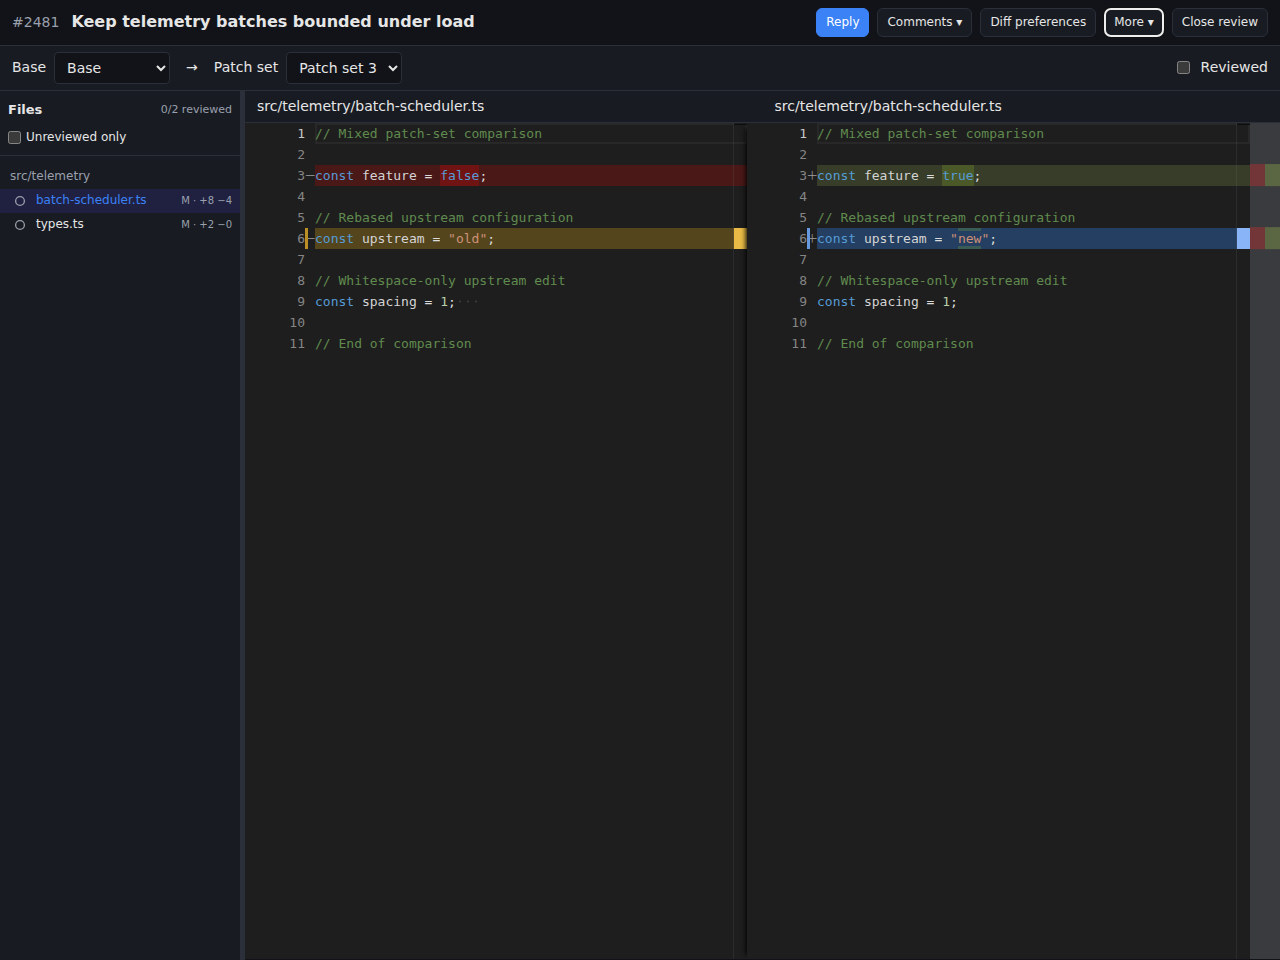
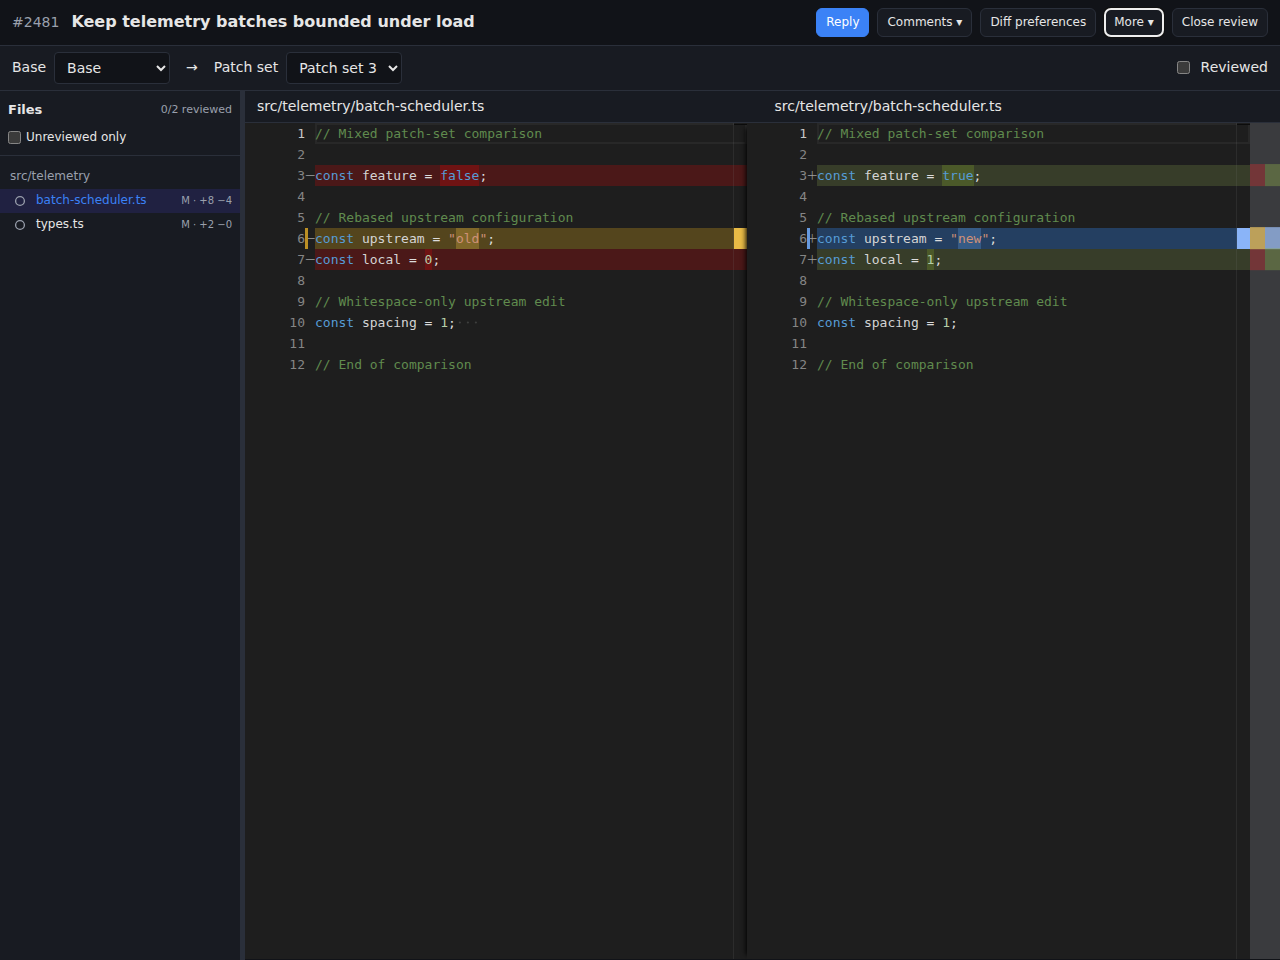
Fix rebase diff highlights and scrollbar colors

Changed region(s): [[0.625, 0.2188, 1.0, 0.4062], [0.25, 0.2188, 0.5938, 0.4062]]

diff --git a/src/renderer/src/styles.css b/src/renderer/src/styles.css
@@ -742,15 +742,26 @@ mark { background: var(--warn-bg); color: inherit; border-radius: 2px; padding: 
 .review-side-head .review-file-comment-header:hover { background: var(--panel); }
 
 /* Gerrit-classified rebase edits are distinct from ordinary red/green edits. */
-.local-review { --rebase-added: #d7e7ff; --rebase-removed: #fff0bd; }
+.local-review { --rebase-added: #d7e7ff; --rebase-removed: #fff0bd; --rebase-added-text: #aacbfa; --rebase-removed-text: #f5d775; }
 @media (prefers-color-scheme: dark) {
-  .local-review { --rebase-added: #243f61; --rebase-removed: #54451d; }
+  .local-review { --rebase-added: #243f61; --rebase-removed: #54451d; --rebase-added-text: #365b86; --rebase-removed-text: #806729; }
 }
-.review-rebase-added, .review-editor .review-rebase-added-text { background: var(--rebase-added) !important; }
-.review-rebase-removed, .review-editor .review-rebase-removed-text { background: var(--rebase-removed) !important; }
+.review-rebase-added { background: var(--rebase-added); }
+.review-rebase-removed { background: var(--rebase-removed); }
+/* Monaco renders line and character backgrounds in a separate overlay layer.
+   Recolor that layer, rather than painting opaque backgrounds on token spans. */
+.review-editor .view-overlays > div:has(.review-rebase-added) {
+  --vscode-diffEditor-insertedTextBackground: var(--rebase-added-text);
+  --vscode-diffEditor-insertedLineBackground: var(--rebase-added);
+}
+.review-editor .view-overlays > div:has(.review-rebase-removed),
+.review-editor .view-zones .view-line:has(.review-rebase-removed-text) {
+  --vscode-diffEditor-removedTextBackground: var(--rebase-removed-text);
+  --vscode-diffEditor-removedLineBackground: var(--rebase-removed);
+}
 .review-editor .review-rebase-added-gutter { border-left: 3px solid #6599df; }
 .review-editor .review-rebase-removed-gutter { border-left: 3px solid #bc8f24; }
-.review-editor .view-line:has(.review-rebase-removed-text) { background: var(--rebase-removed) !important; }
+.review-editor .view-zones .view-line:has(.review-rebase-removed-text) { background: var(--rebase-removed) !important; }
 
 /* One action header and one comparison row leave the file area to the diff. */
 .local-review-header { padding: 8px 12px; gap: 8px; }

diff --git a/src/renderer/src/components/ReviewEditor.tsx b/src/renderer/src/components/ReviewEditor.tsx
@@ -156,7 +156,7 @@ export default function ReviewEditor({ file, link, preferences, onReady, onComme
         const kind = pane === 'original' ? 'removed' : 'added'
         rebaseDecorations[index]!.set(ranges.filter(range => range.pane === pane).map(range => ({
           range: new monaco.Range(range.start, 1, range.end, Number.MAX_SAFE_INTEGER),
-          options: { isWholeLine: true, className: `review-rebase-${kind}`, inlineClassName: `review-rebase-${kind}-text`, zIndex: 20,
+          options: { description: 'review-rebase', isWholeLine: true, className: `review-rebase-${kind}`, inlineClassName: `review-rebase-${kind}-text`, zIndex: 20,
             linesDecorationsClassName: `review-rebase-${kind}-gutter`, linesDecorationsTooltip: 'Change due to rebase',
             hoverMessage: { value: 'Change due to rebase, identified by Gerrit.' },
             overviewRuler: { color: kind === 'added' ? '#8ab4f8' : '#e9bb46', position: monaco.editor.OverviewRulerLane.Full } },
